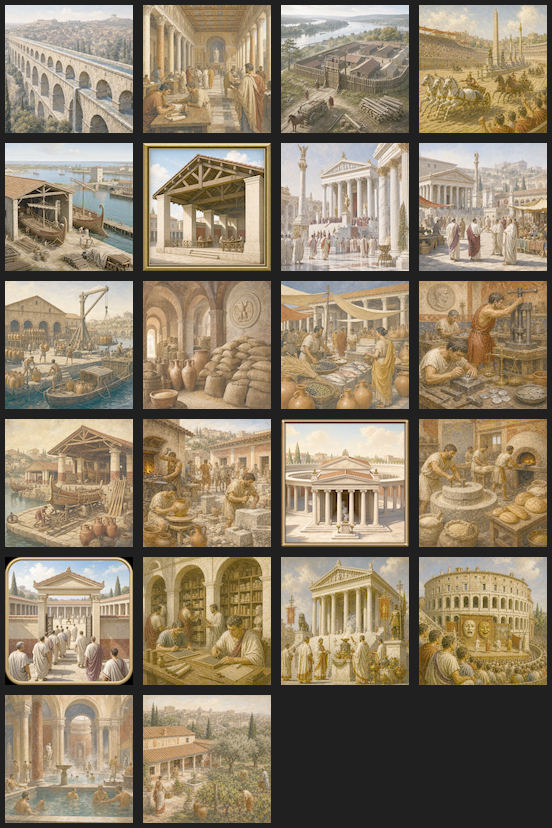
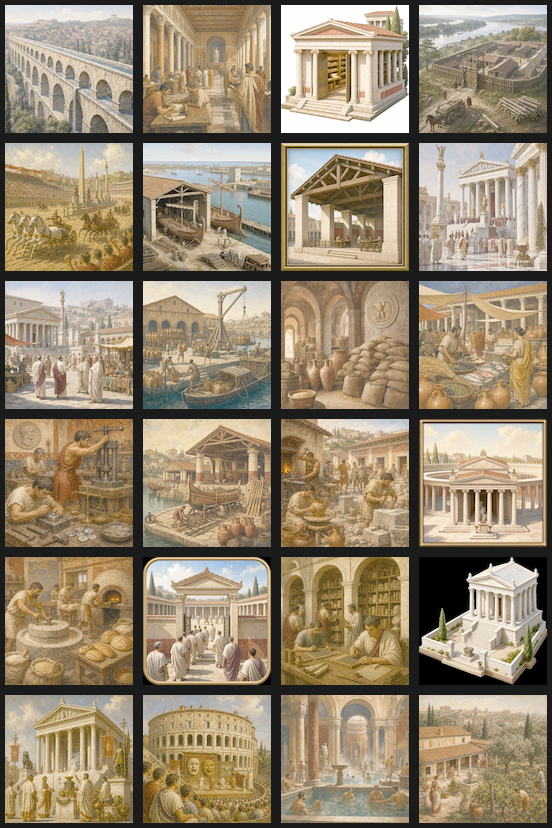
feat(m5): add Palatine temple and library

diff --git a/docs/m5/M5_ROMAN_CIVIC_BUILDINGS.md b/docs/m5/M5_ROMAN_CIVIC_BUILDINGS.md
@@ -34,6 +34,12 @@ quantities.
 
 The three Rome specials are limited city-point proxies. Pantheum Agrippae does not use the later Hadrianic rotunda; Saepta Iulia does not import its later luxury-market use; and the Diribitorium does not reconstruct a ballot procedure, staff, or count. Their modest upkeep distinguishes stone, marble, timber, cloth, tools, incense, wine, pottery, and beeswax as relevant ancient goods or services without treating the values as a historical inventory.
 
+### Palatine temple and library additions
+
+`DAR-APOLLO-PAL` is Digital Augustan Rome's [Apollo Templum (Palatium) record](https://www.digitalaugustanrome.org/records/apollo-templum-palatium/): Augustus' Temple of Apollo was dedicated on 9 October 28 BC and was built in Luna marble. `DAR-BIBLIOTHECA-PAL` is its [Bibliotheca Latina Graecaque record](https://www.digitalaugustanrome.org/records/bibliotheca-latina-graecaque/): the Palatine library held Greek and Latin collections, likely opened after 28 BC and was probably in use by 23 BC; it was also used for some Senate meetings.
+
+The Temple of Apollo is a modest cult-complex proxy only; it does not rebuild its lost interior programme, priesthood, rites, or the later imperial palace. The library's pre-AD 1 function is retained while its uncertain plan and opening sequence are explicitly marked contested. Its `books` input is an engine-good proxy for scroll collections, not a claim for codices, a surviving catalogue, or stock volume; beeswax stands only for the ordinary tablet-and-record context. The two separate direct illustrations deliberately omit named persons, inscriptions, later buildings, and Christian imagery.
+
 ## Technical mapping
 
 The definitions use only contracts read from the installed build's
@@ -46,7 +52,7 @@ Their start-state presence is rendered through the existing verified
 
 ## Art review
 
-The direct Pantheum Agrippae, Saepta Iulia, and Diribitorium source images were
+The direct Pantheum Agrippae, Saepta Iulia, Diribitorium, Temple of Apollo, and Palatine Library source images were
 visually reviewed, cropped to 128px masters, converted to direct BC7 DDS
 files, and added to [the contact sheet](ROMAN_BUILDING_ICON_CONTACT_SHEET.png)
 alongside the existing named-building set.

diff --git a/docs/world_1ad/SOURCES.md b/docs/world_1ad/SOURCES.md
@@ -142,6 +142,8 @@ a row reaches `implemented` status.
 - `DAR-PANTHEUM`: Digital Augustan Rome, [Pantheum](https://www.digitalaugustanrome.org/records/pantheum/), records Agrippa's c. 27 BC Campus Martius temple and distinguishes its incomplete Augustan archaeological form from Hadrian's later rebuilding. It supports an AD 1 cult-complex anchor, not the modern dome or a recovered ritual schedule.
 - `DAR-SAEPTA`: Digital Augustan Rome, [Saepta Iulia](https://www.digitalaugustanrome.org/records/saepta-iulia/), records Agrippa's 26 BC dedication of the porticoed tribal-voting enclosure. It supports the AD 1 civic anchor, not a reconstruction of voting procedures, turnout, or later luxury-market activity.
 - `DAR-DIRIBITORIUM`: Digital Augustan Rome, [Diribitorium](https://www.digitalaugustanrome.org/records/diribitorium/), records Augustus' 7 BC completion of the Saepta-adjoining vote-counting hall and its monumental timber roof. It supports a civic-hall anchor, not an administrative staff, ballot count, or post-AD 80 rebuilding.
+- `DAR-APOLLO-PAL`: Digital Augustan Rome, [Apollo Templum (Palatium)](https://www.digitalaugustanrome.org/records/apollo-templum-palatium/), records Augustus' Palatine Temple of Apollo and its 9 October 28 BC dedication. It supports an AD 1 sanctuary anchor, not a recovered interior programme, rite, staff, or later palace reconstruction.
+- `DAR-BIBLIOTHECA-PAL`: Digital Augustan Rome, [Bibliotheca Latina Graecaque](https://www.digitalaugustanrome.org/records/bibliotheca-latina-graecaque/), records the Palatine Greek-and-Latin library's pre-AD 1 use and senatorial function while noting uncertainty around its plan and precise opening sequence. It supports a bounded library anchor, not a surviving catalogue, codex collection, or exact room layout.
 - `CHG`: China Historical GIS Han-era layers, subject to its attribution and
   non-commercial license review before data import.
 - `PER`: *Periplus of the Erythraean Sea* and modern scholarship for Indian

diff --git a/docs/m12/ANACHRONISM_AUDIT.md b/docs/m12/ANACHRONISM_AUDIT.md
@@ -36,6 +36,6 @@ the audit.
 
 ## Result
 
-18 English files and 5582 quoted player-facing entries contain
+18 English files and 5588 quoted player-facing entries contain
 zero prohibited terms. The check is pinned in `make validate`; a newly authored
 anachronism fails before it can reach a smoke run.
